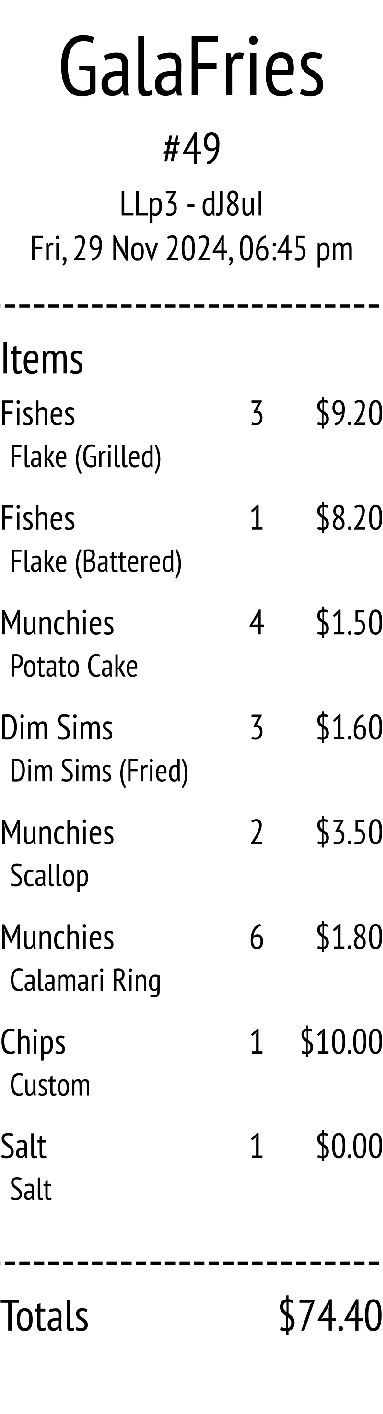
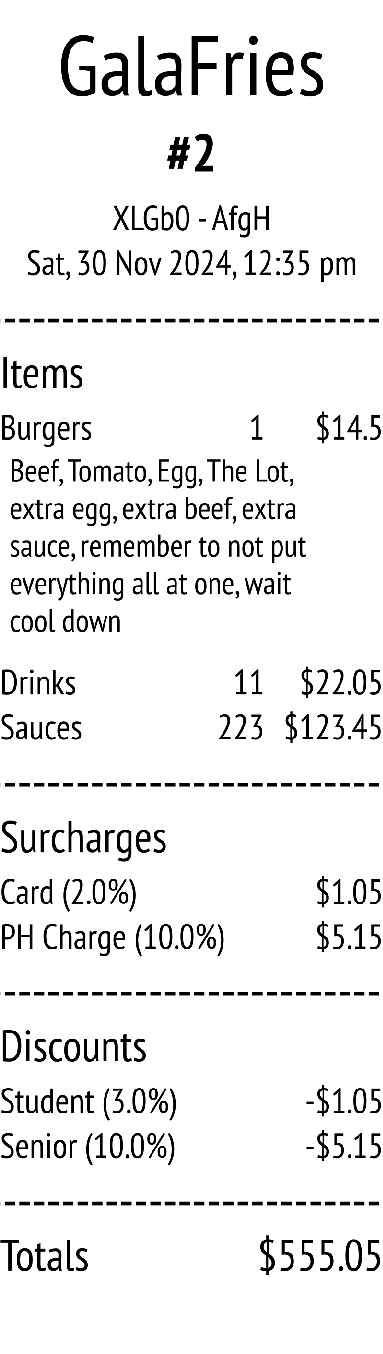
feat: font bold

diff --git a/src/modules/render.ts b/src/modules/render.ts
@@ -2,9 +2,11 @@ import { Canvas, createCanvas, registerFont } from 'canvas';
 import fs from 'fs';
 
 registerFont(__dirname + '/../assets/fonts/PTSans-Narrow.ttf', { family: 'PT Sans Narrow' });
+registerFont(__dirname + '/../assets/fonts/PTSans-Narrow-Bold.ttf', { family: 'PT Sans Narrow Bold' });
 
 const PADDING = 40;
 const FONT = `"PT Sans Narrow", sans-serif`;
+const FONT_BOLD = `"PT Sans Narrow Bold", sans-serif`;
 const ORIGIN_REM = 36;
 const CURRENT_REM = 66;
 const RATIO = CURRENT_REM / ORIGIN_REM;
@@ -51,11 +53,11 @@ export function addIndexRow(
 ) {
   const ctx = canvas.getContext('2d');
   ctx.fillStyle = 'black';
-  ctx.font = `${getCurrentPxSize(50)}px ${FONT}`;
+  ctx.font = `${getCurrentPxSize(60)}px ${FONT_BOLD}`;
   ctx.textAlign = 'center';
   ctx.textBaseline = 'top';
   ctx.fillText(`#${index}`, canvas.width / 2, yPosition.value);
-  yPosition.value += getCurrentPxSize(80) * VERTICAL_SPACE_RATIO;
+  yPosition.value += getCurrentPxSize(100) * VERTICAL_SPACE_RATIO;
 }
 
 export function addSubTitle(
